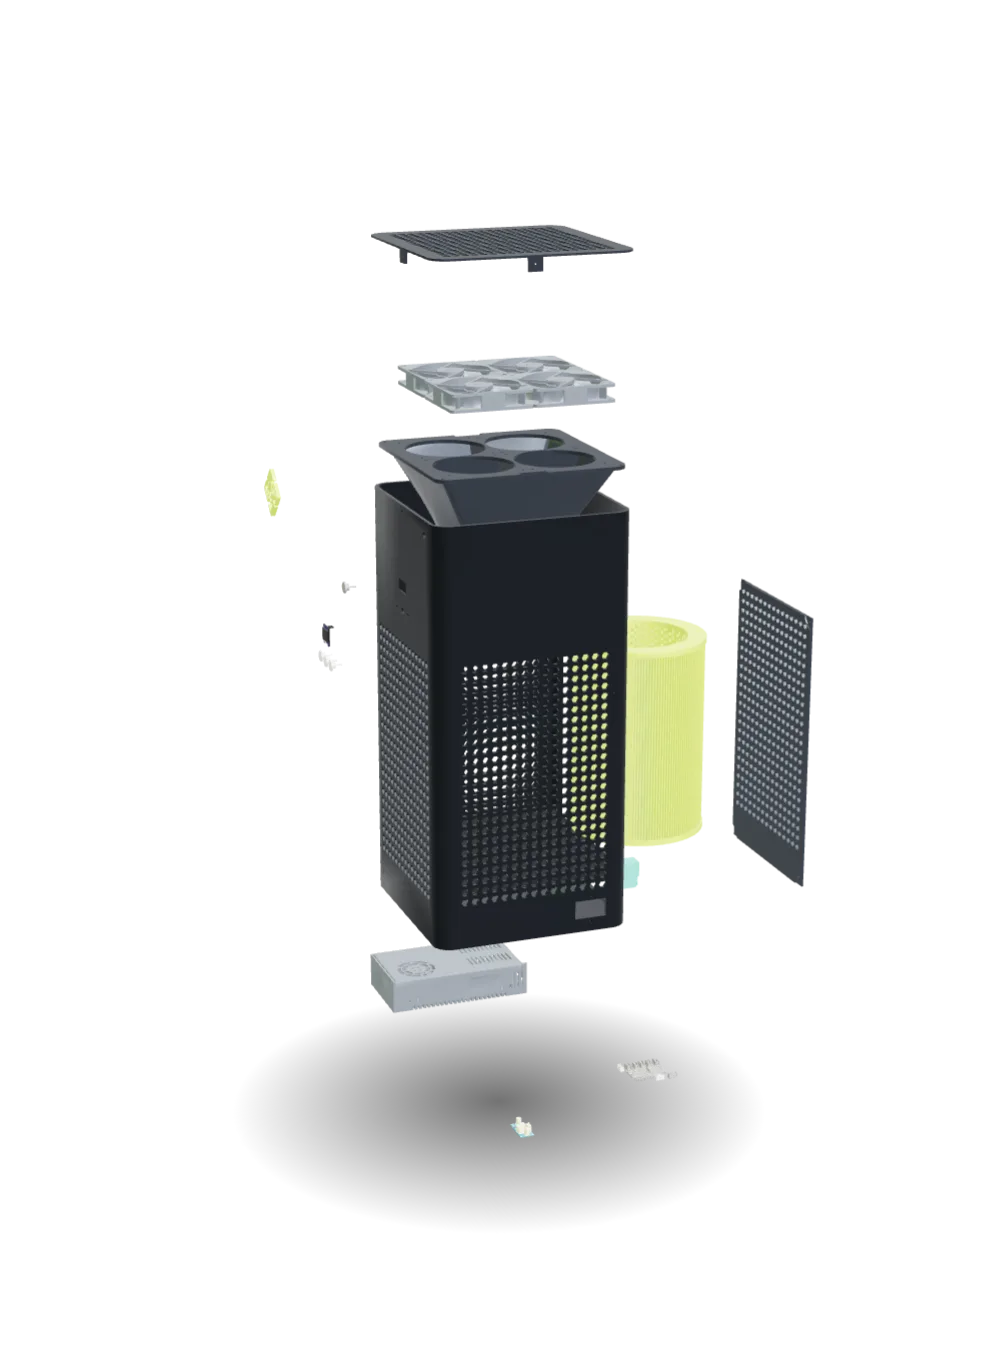
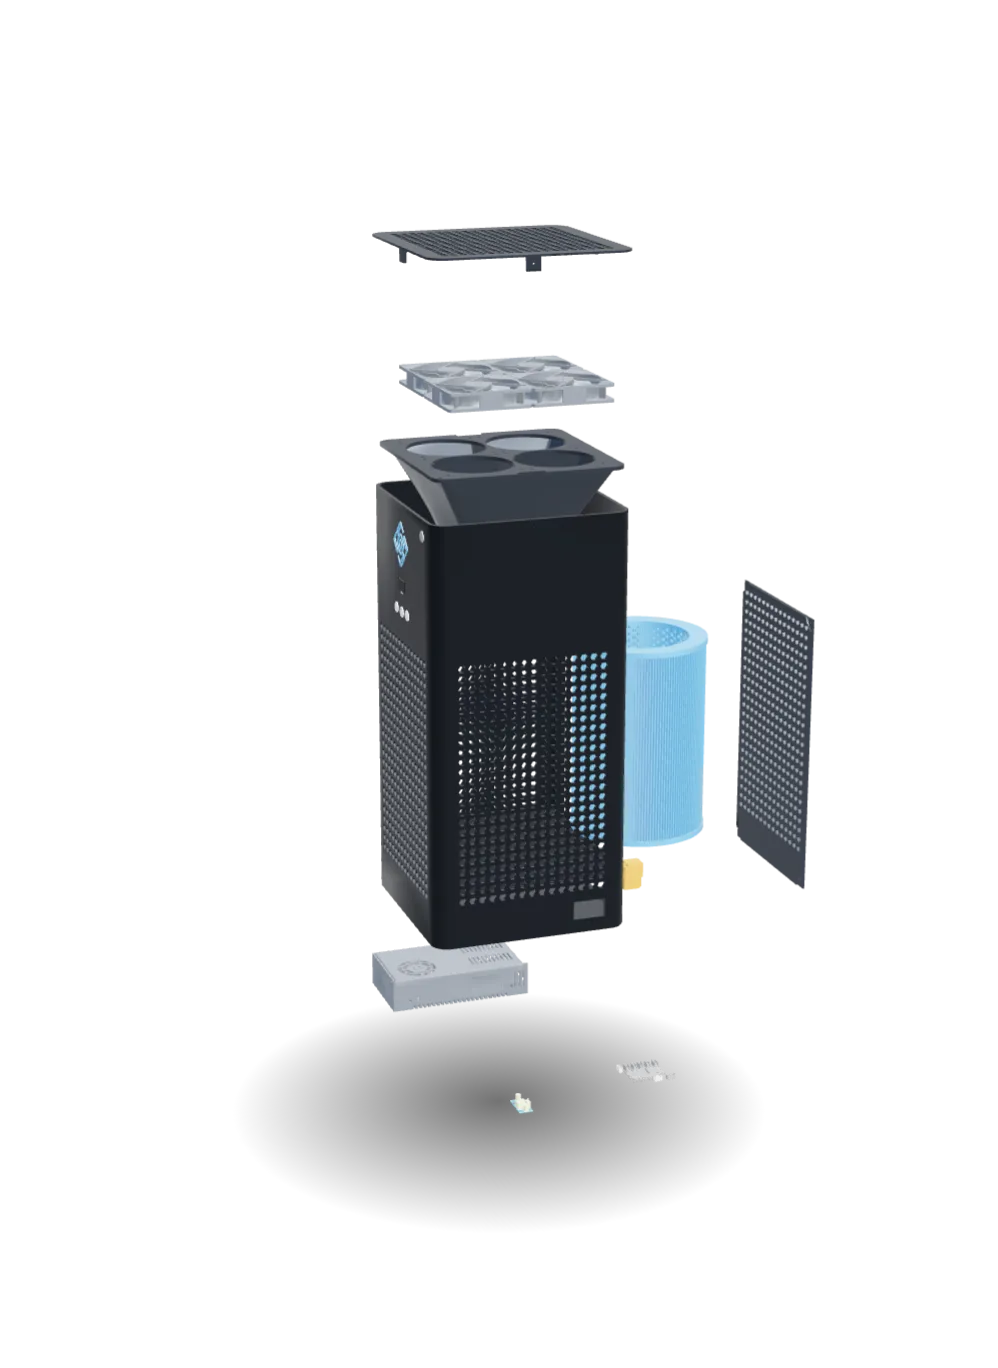
Recolour the site to the intro's blue, with amber as second accent
The accent now matches the intro burst (hue 206, #47afff), so the intro
hands over to the Hero without a colour change. Amber replaces teal as
the second accent. All glows and shadows read from --accent-rgb and
--accent-2-rgb in tokens.css, so retheming is a one-line change. The
favicon, project covers and 3D fallback image are updated to match.

diff --git a/src/components/ModelStage.jsx b/src/components/ModelStage.jsx
@@ -18,10 +18,10 @@ const CAMERA = {
   targetY: [0, 0.1],
 };
 
-function makeMaterials(accent, teal) {
+function makeMaterials(accent, accent2) {
   return {
     component: new THREE.MeshStandardMaterial({ color: 0x8a929c, metalness: 0.45, roughness: 0.45 }),
-    teal: new THREE.MeshStandardMaterial({ color: teal, metalness: 0.2, roughness: 0.5 }),
+    accent2: new THREE.MeshStandardMaterial({ color: accent2, metalness: 0.2, roughness: 0.5 }),
     body: new THREE.MeshStandardMaterial({ color: 0x2c3138, metalness: 0.75, roughness: 0.38 }),
     panel: new THREE.MeshStandardMaterial({ color: 0x454c56, metalness: 0.7, roughness: 0.32 }),
     matte: new THREE.MeshStandardMaterial({ color: 0x1b1e23, metalness: 0, roughness: 0.9 }),
@@ -71,7 +71,7 @@ const ModelStage = forwardRef(function ModelStage({ model, onReady, onError }, r
     const host = hostRef.current;
     const canvas = canvasRef.current;
     const small = window.matchMedia('(max-width: 599px)').matches;
-    const accentHex = getComputedStyle(document.documentElement).getPropertyValue('--accent').trim() || '#d4ff3f';
+    const accentHex = getComputedStyle(document.documentElement).getPropertyValue('--accent').trim() || '#47afff';
 
     const renderer = new THREE.WebGLRenderer({ canvas, antialias: true, alpha: true, powerPreference: 'high-performance' });
     renderer.setPixelRatio(Math.min(window.devicePixelRatio || 1, small ? 1.25 : 1.75));
@@ -90,8 +90,8 @@ const ModelStage = forwardRef(function ModelStage({ model, onReady, onError }, r
     scene.add(key, rim, makeShadow());
 
     const css = getComputedStyle(document.documentElement);
-    const tealHex = css.getPropertyValue('--accent-2').trim() || '#5fe3cf';
-    const materials = makeMaterials(new THREE.Color(accentHex), new THREE.Color(tealHex));
+    const accent2Hex = css.getPropertyValue('--accent-2').trim() || '#ffb547';
+    const materials = makeMaterials(new THREE.Color(accentHex), new THREE.Color(accent2Hex));
     const count = stepCount(model.parts);
     let parts = [];
     const cadMaterials = new Map();

diff --git a/src/data/model.js b/src/data/model.js
@@ -4,7 +4,7 @@
 // Each part names one or more meshes from the model (as printed by the convert script), the
 // direction it moves when exploded (`offset`, in model units — the model is 2 units tall), and
 // `step`, the order it separates in (parts can share a step). `step: -1` stays in place.
-// `tone` picks the material: body / panel / matte / component / accent / teal, or `original`
+// `tone` picks the material: body / panel / matte / component / accent / accent2, or `original`
 // to keep the colours from the CAD file. Meshes not listed here stay in place.
 //
 // NOTE: the part notes are drafts written from the thesis docs — review and correct them.
@@ -70,7 +70,7 @@ export const purisenseModel = {
       note: 'Laser dust sensor with its built-in fan, read over UART once a second. PuriSense pairs two — intake and exhaust.',
       offset: [0.6, -0.55, -0.35],
       step: 5,
-      tone: 'teal',
+      tone: 'accent2',
     },
     {
       meshes: ['base_cover'],

diff --git a/src/styles/model.css b/src/styles/model.css
@@ -43,7 +43,7 @@
   border: 1px solid var(--line);
   border-radius: var(--radius-lg);
   background:
-    radial-gradient(55% 55% at 50% 45%, rgba(212, 255, 63, 0.07), transparent 70%),
+    radial-gradient(55% 55% at 50% 45%, rgba(var(--accent-rgb), 0.07), transparent 70%),
     var(--bg-2);
   overflow: hidden;
 }
@@ -120,7 +120,7 @@
   margin: -3.5px 0 0 -3.5px;
   border-radius: 50%;
   background: var(--accent);
-  box-shadow: 0 0 0 4px rgba(212, 255, 63, 0.18);
+  box-shadow: 0 0 0 4px rgba(var(--accent-rgb), 0.18);
   opacity: 0;
   transition: opacity 0.35s;
 }
@@ -196,7 +196,7 @@
   position: absolute;
   inset: 0;
   background: var(--accent);
-  box-shadow: 0 0 10px rgba(212, 255, 63, 0.5);
+  box-shadow: 0 0 10px rgba(var(--accent-rgb), 0.5);
   transform-origin: top;
   transform: scaleY(var(--p));
 }

diff --git a/src/styles/hero.css b/src/styles/hero.css
@@ -35,7 +35,7 @@
   width: 62vmax;
   height: 62vmax;
   border-radius: 50%;
-  background: radial-gradient(closest-side, rgba(212, 255, 63, 0.11), rgba(95, 227, 207, 0.04) 55%, transparent);
+  background: radial-gradient(closest-side, rgba(var(--accent-rgb), 0.11), rgba(var(--accent-2-rgb), 0.04) 55%, transparent);
   animation: glow-drift 16s ease-in-out infinite alternate;
   pointer-events: none;
 }
@@ -141,11 +141,11 @@
 
 @keyframes pulse {
   0% {
-    box-shadow: 0 0 0 0 rgba(212, 255, 63, 0.55);
+    box-shadow: 0 0 0 0 rgba(var(--accent-rgb), 0.55);
   }
   70%,
   100% {
-    box-shadow: 0 0 0 9px rgba(212, 255, 63, 0);
+    box-shadow: 0 0 0 9px rgba(var(--accent-rgb), 0);
   }
 }
 

diff --git a/src/styles/tokens.css b/src/styles/tokens.css
@@ -14,10 +14,15 @@
   --dim: #85888f;
 
   /* Accents */
-  --accent: #d4ff3f;
+  /* Accent: electric blue (matches the intro burst, hue 206). Change the RGB triplets to retheme. */
+  --accent-rgb: 71, 175, 255;
+  --accent: rgb(var(--accent-rgb));
+  --accent-hover: #85c9ff;
   --accent-ink: #0a0b0d;
-  --accent-soft: rgba(212, 255, 63, 0.1);
-  --accent-2: #5fe3cf;
+  --accent-soft: rgba(var(--accent-rgb), 0.1);
+  /* Second accent: amber, for contrast (project labels, the 3D sensor, the Hero's glow). */
+  --accent-2-rgb: 255, 181, 71;
+  --accent-2: rgb(var(--accent-2-rgb));
   --danger: #ff9a8f;
 
   /* Type */

diff --git a/src/styles/journey.css b/src/styles/journey.css
@@ -21,7 +21,7 @@
 
 .timeline__progress {
   background: var(--accent);
-  box-shadow: 0 0 12px rgba(212, 255, 63, 0.5);
+  box-shadow: 0 0 12px rgba(var(--accent-rgb), 0.5);
   transform: scaleY(var(--progress));
   transform-origin: top;
 }
@@ -131,7 +131,7 @@
   border: 1px solid var(--line-strong);
   border-radius: var(--radius-lg);
   background:
-    radial-gradient(60% 120% at 100% 0%, rgba(212, 255, 63, 0.08), transparent 60%),
+    radial-gradient(60% 120% at 100% 0%, rgba(var(--accent-rgb), 0.08), transparent 60%),
     var(--surface);
 }
 

diff --git a/src/components/HeroCanvas.jsx b/src/components/HeroCanvas.jsx
@@ -69,7 +69,7 @@ export default function HeroCanvas() {
   useEffect(() => {
     const canvas = canvasRef.current;
     const ctx = canvas.getContext('2d');
-    const accent = getComputedStyle(document.documentElement).getPropertyValue('--accent').trim() || '#d4ff3f';
+    const accent = getComputedStyle(document.documentElement).getPropertyValue('--accent').trim() || '#47afff';
     const base = document.createElement('canvas');
     let w = 0, h = 0, dpr = 1, traces = [], raf = 0, last = 0, visible = true;
 

diff --git a/src/styles/skills.css b/src/styles/skills.css
@@ -25,7 +25,7 @@
   position: absolute;
   inset: 0;
   pointer-events: none;
-  background: radial-gradient(420px circle at var(--mx, 50%) var(--my, 50%), rgba(212, 255, 63, 0.09), transparent 42%);
+  background: radial-gradient(420px circle at var(--mx, 50%) var(--my, 50%), rgba(var(--accent-rgb), 0.09), transparent 42%);
   opacity: 0;
   transition: opacity 0.35s;
 }

diff --git a/src/styles/projects.css b/src/styles/projects.css
@@ -71,7 +71,7 @@
 .project-card__shade {
   position: absolute;
   inset: 0;
-  background: linear-gradient(160deg, transparent 35%, rgba(212, 255, 63, 0.16) 100%);
+  background: linear-gradient(160deg, transparent 35%, rgba(var(--accent-rgb), 0.16) 100%);
   opacity: 0;
   transition: opacity 0.6s var(--ease-out);
 }

diff --git a/src/styles/nav.css b/src/styles/nav.css
@@ -53,7 +53,7 @@
 
 .brand:hover .brand__mark {
   color: var(--accent);
-  filter: drop-shadow(0 0 6px rgba(212, 255, 63, 0.45));
+  filter: drop-shadow(0 0 6px rgba(var(--accent-rgb), 0.45));
 }
 
 .nav-desktop ul {

diff --git a/src/styles/base.css b/src/styles/base.css
@@ -209,7 +209,7 @@ main:focus {
 }
 
 .btn--primary:hover {
-  background: #e4ff7a;
+  background: var(--accent-hover);
 }
 
 .btn--ghost {
